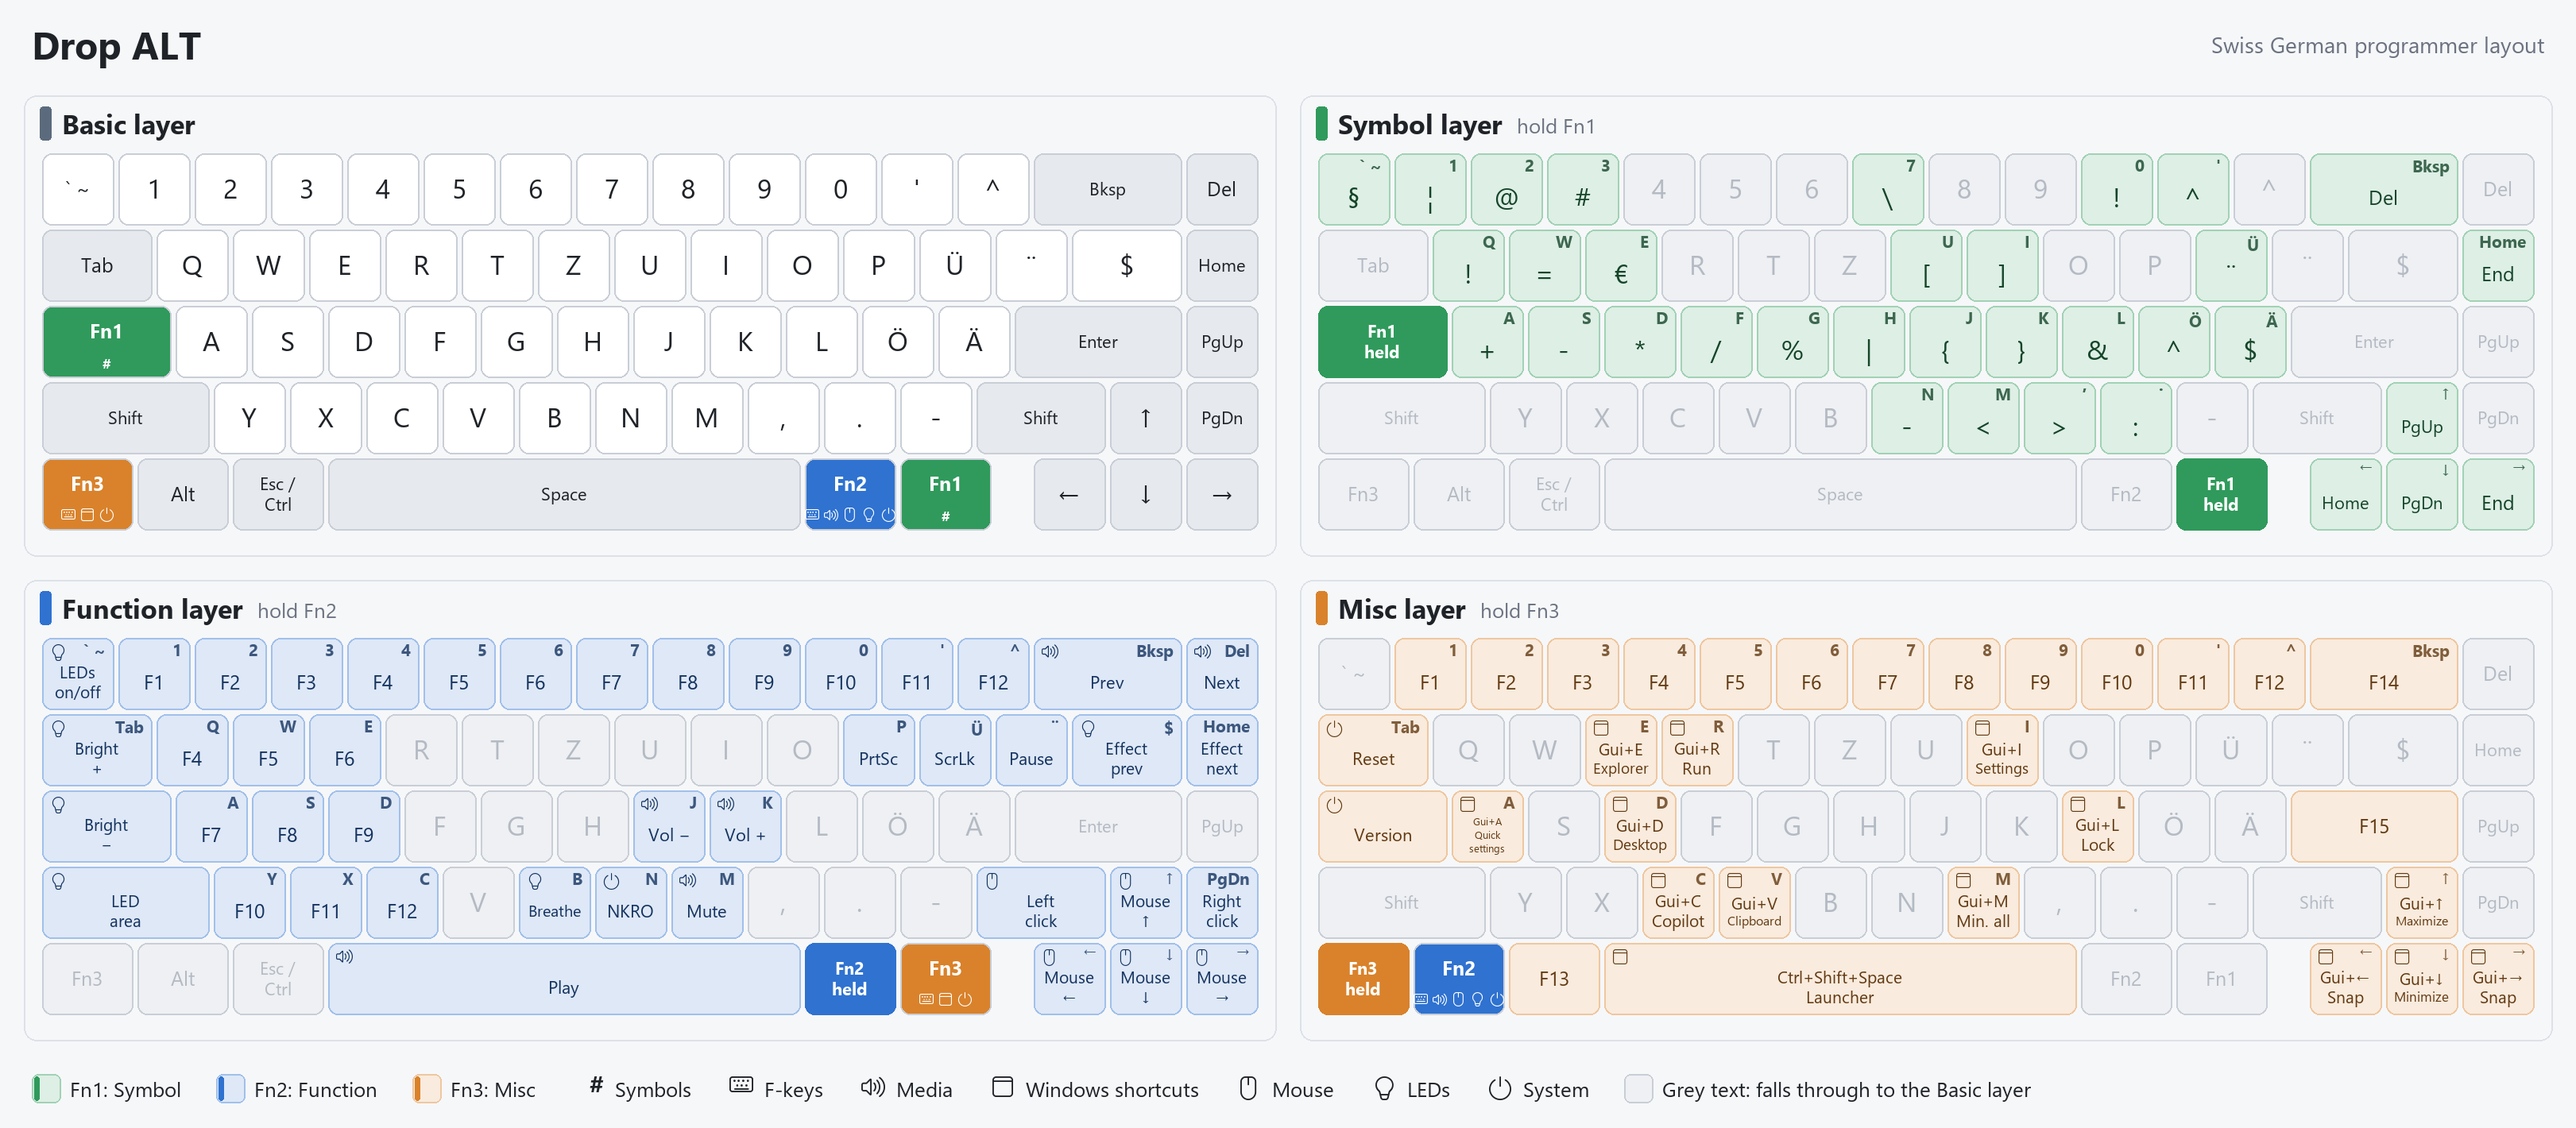
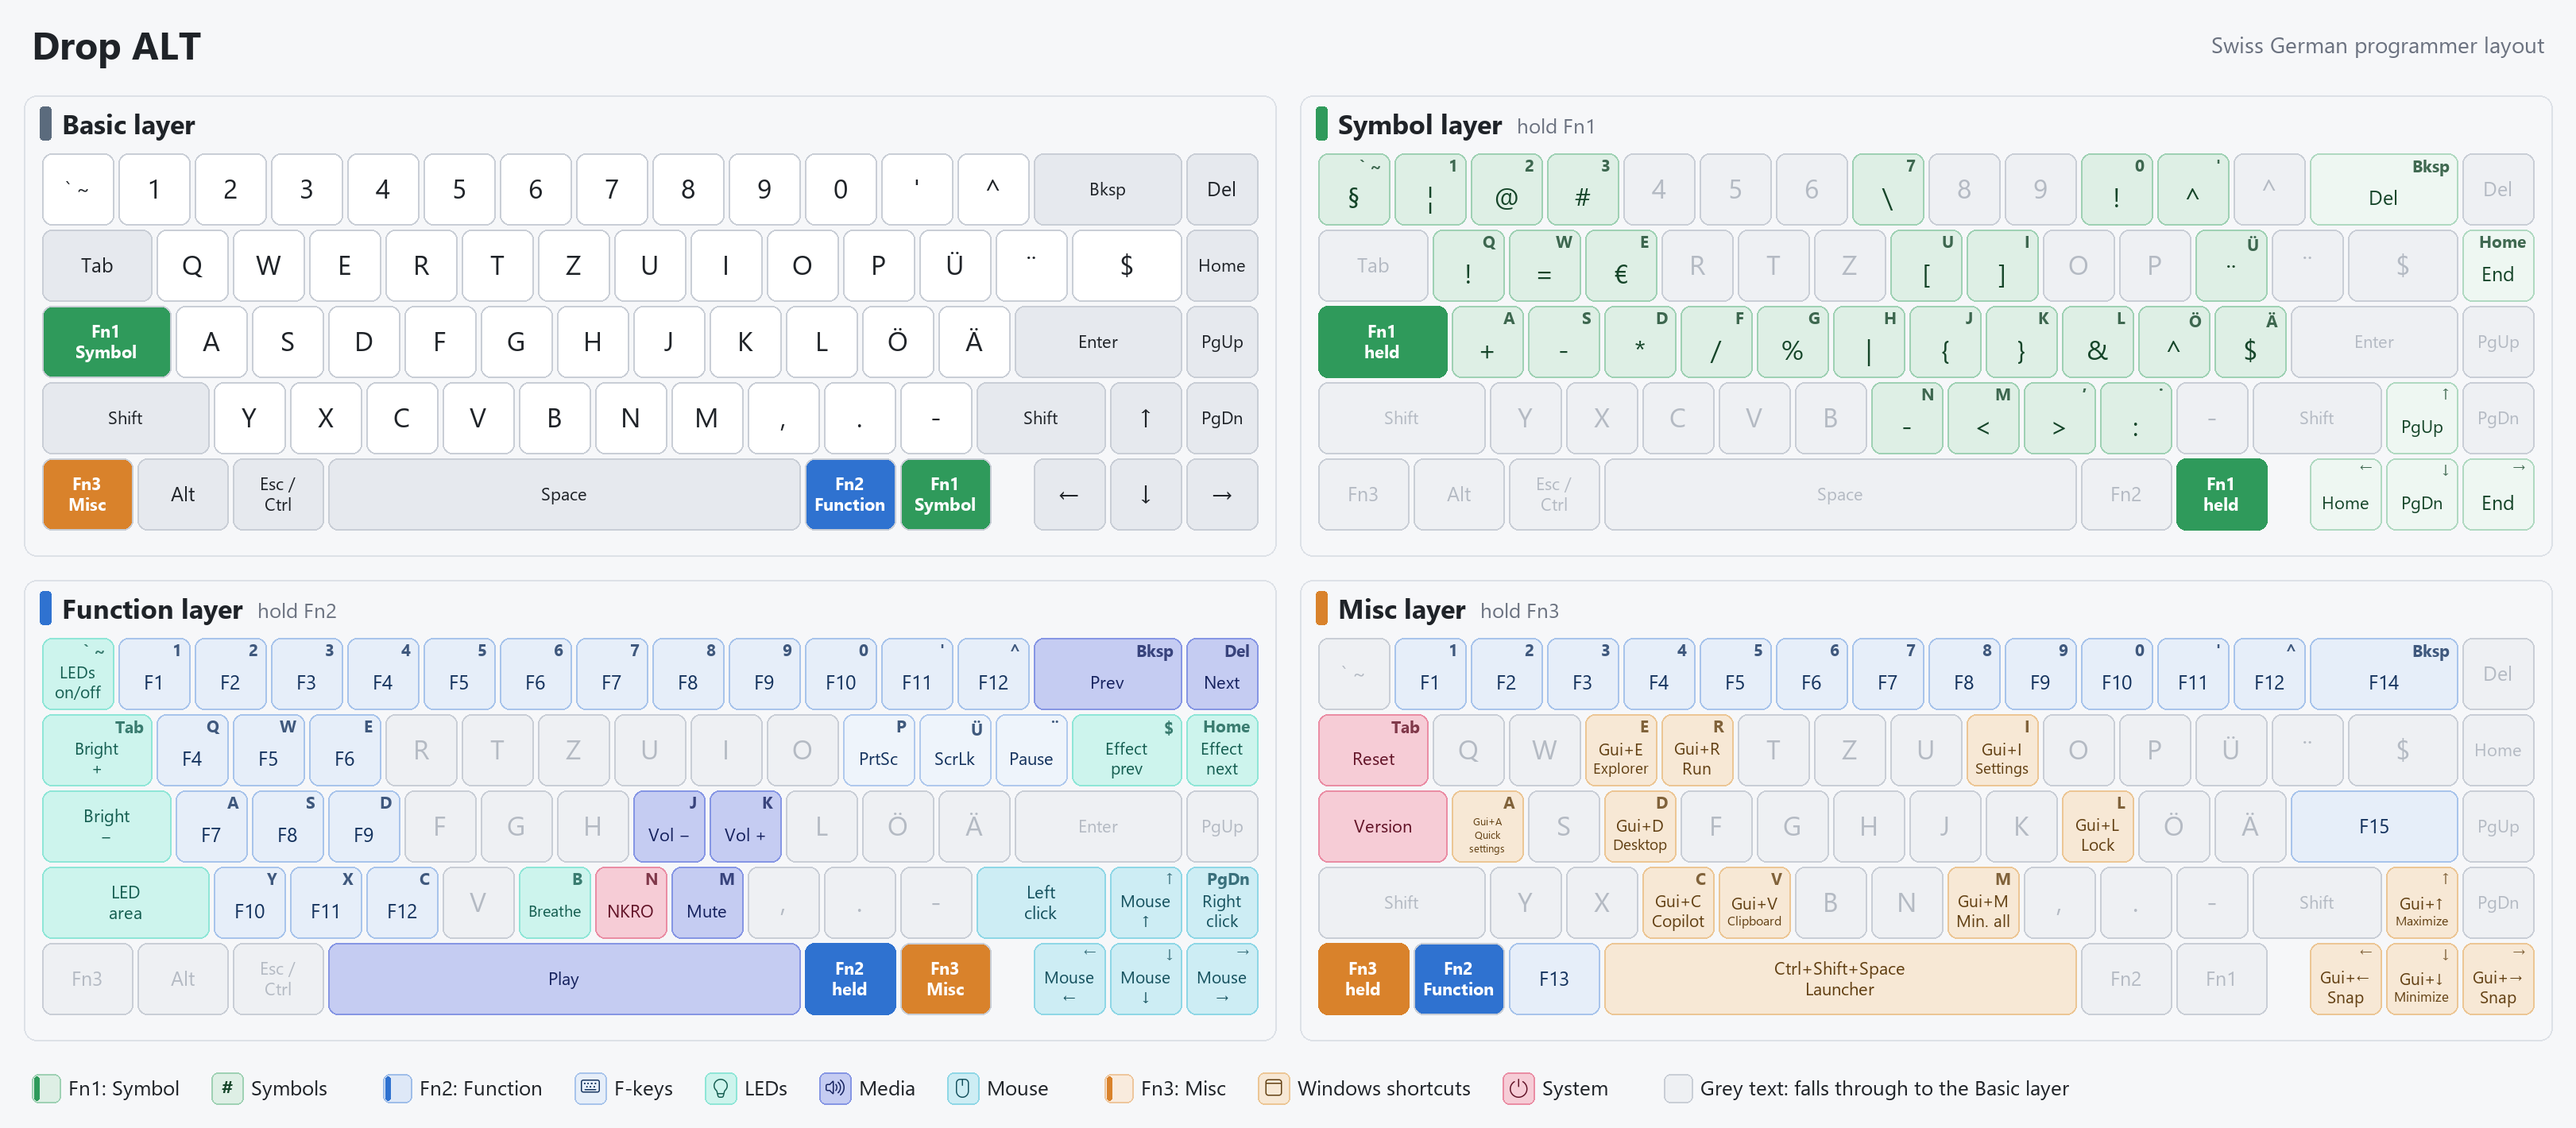
Colour cheat sheet groups as shades of their layer colour
Layer keys name their layer under the Fn label, key icons move to the
legend only, and each group gets a hue variation of its layer colour
(F-keys and system keys keep one colour everywhere). The legend lists
each layer followed by its groups, with a chip per group colour.

diff --git a/tools/cheatsheets.py b/tools/cheatsheets.py
@@ -3,6 +3,7 @@
 Usage: python tools/cheatsheets.py   (writes docs/cheatsheets/*.png)
 Needs Pillow. Labels come from the keymap code, not the ASCII comments.
 """
+import colorsys
 import re
 from pathlib import Path
 
@@ -36,12 +37,17 @@ ICONS = {                    # category: (font file, glyph)
     "rgb":    (FONT_ICONS, ""),   # light bulb
     "system": (FONT_ICONS, ""),   # power
 }
-KEY_ICONS = {"media", "window", "mouse", "rgb", "system"}   # symbol/F-key labels speak for themselves
-LEGEND = [
-    ("symbol", "Symbols"), ("fkey", "F-keys"), ("media", "Media"),
-    ("window", "Windows shortcuts"), ("mouse", "Mouse"), ("rgb", "LEDs"),
-    ("system", "System"),
-]
+GROUP_SHADES = {             # category: (hue shift in degrees, amount of white) off the layer colour
+    "symbol": (0, 0.84), "mod": (0, 0.92), "fkey": (0, 0.88),
+    "media": (15, 0.72), "rgb": (-45, 0.76), "window": (4, 0.80),
+    "mouse": (-25, 0.76), "system": (-45, 0.76),
+}
+GROUP_LAYER = {"system": 3, "fkey": 2}  # categories with one colour on every layer, taken from this layer
+LEGEND = {                   # layer: the groups listed after it in the legend
+    1: [("symbol", "Symbols")],
+    2: [("fkey", "F-keys"), ("rgb", "LEDs"), ("media", "Media"), ("mouse", "Mouse")],
+    3: [("window", "Windows shortcuts"), ("system", "System")],
+}
 BG = "#f6f7f9"
 TRANSPARENT_FILL = "#eef0f3"
 TRANSPARENT_TEXT = "#b4bac3"
@@ -249,19 +255,27 @@ def mix(color, other, amount):
     return "#" + "".join(f"{round(x + (y - x) * amount):02x}" for x, y in zip(a, b))
 
 
-def layer_colours(n):
-    """fill, text, outline for keys that do something on layer n."""
-    accent = LAYERS[n][2]
-    return mix(accent, "#ffffff", 0.84), mix(accent, "#000000", 0.55), mix(accent, "#ffffff", 0.55)
+def shift_hue(color, degrees):
+    r, g, b = (int(color[i:i + 2], 16) / 255 for i in (1, 3, 5))
+    h, l, s = colorsys.rgb_to_hls(r, g, b)
+    r, g, b = colorsys.hls_to_rgb((h + degrees / 360) % 1, l, s)
+    return "#" + "".join(f"{round(c * 255):02x}" for c in (r, g, b))
+
+
+def key_colours(n, cat="symbol"):
+    """fill, text, outline for a key of category cat on layer n: a variation of the layer colour."""
+    shift, white = GROUP_SHADES.get(cat, (0, 0.84))
+    accent = shift_hue(LAYERS[GROUP_LAYER.get(cat, n)][2], shift)
+    return mix(accent, "#ffffff", white), mix(accent, "#000000", 0.55), mix(accent, "#ffffff", white - 0.3)
 
 
 def draw_glyph(draw, xy, glyph, size, color, anchor="lt"):
-    """Draw a glyph so its ink box sits at xy (anchor: l/r + t/b)."""
+    """Draw a glyph so its ink box sits at xy (anchor: l/m/r + t/m/b)."""
     path, ch = glyph
     f = font(size, path=path)
     x0, y0, x1, y1 = f.getbbox(ch)
-    x = xy[0] - (x0 if anchor[0] == "l" else x1)
-    y = xy[1] - (y0 if anchor[1] == "t" else y1)
+    x = xy[0] - {"l": x0, "m": (x0 + x1) / 2, "r": x1}[anchor[0]]
+    y = xy[1] - {"t": y0, "m": (y0 + y1) / 2, "b": y1}[anchor[1]]
     draw.text((x, y), ch, font=f, fill=color)
     return x1 - x0
 
@@ -297,40 +311,23 @@ def fit_key_text(draw, text, max_w, max_h):
 
 
 def draw_key(draw, rect, text, fill, color, outline=None, bold=False, width=2,
-             icon=None, corner=None, corner_color=None, badges=()):
+             corner=None, corner_color=None):
     """text may be a tuple of alternative wrappings; the one whose smallest line is largest wins.
-    icon: category glyph top left; corner: Basic-layer key label top right;
-    badges: row of category glyphs under the text."""
+    corner: Basic-layer key label drawn top right."""
     x0, y0, x1, y1 = rect
     draw.rounded_rectangle(rect, RADIUS, fill=fill, outline=outline or "#c9ced6", width=width)
     pad, small = 10, int(U * 0.22)
-    top = bottom = 0
-    if icon and corner:                 # no room for both: the Basic key label wins
-        widths = [font(small, path=p).getbbox(t) for p, t in (ICONS[icon], (FONT_BOLD, corner))]
-        if sum(b[2] - b[0] for b in widths) + 8 > x1 - x0 - 2 * pad:
-            icon = None
-    if icon:
-        draw_glyph(draw, (x0 + pad, y0 + pad - 2), ICONS[icon], small, color)
+    top = 0
     if corner:
         draw_glyph(draw, (x1 - pad, y0 + pad - 2), (FONT_BOLD, corner), small, corner_color, "rt")
-    if icon or corner:
         top = small + 2
-    if badges:
-        bottom = small + 4
-        sz = int(small * 0.9)
-        ws = [font(sz, path=ICONS[b][0]).getbbox(ICONS[b][1]) for b in badges]
-        ws = [b[2] - b[0] for b in ws]
-        x = (x0 + x1 - sum(ws) - 6 * (len(ws) - 1)) / 2
-        for b, w in zip(badges, ws):
-            draw_glyph(draw, (x, y1 - pad), ICONS[b], sz, color, "lb")
-            x += w + 6
     if not text:
         return
     variants = [text] if isinstance(text, str) else text
-    fits = [fit_key_text(draw, t, x1 - x0 - 2 * pad, y1 - y0 - 2 * pad - top - bottom) for t in variants]
+    fits = [fit_key_text(draw, t, x1 - x0 - 2 * pad, y1 - y0 - 2 * pad - top) for t in variants]
     lines, sizes = max(fits, key=lambda ls: min(ls[1]))
     fonts = [font(s, bold) for s in sizes]
-    cx, cy = (x0 + x1) / 2, (y0 + top + y1 - bottom) / 2
+    cx, cy = (x0 + x1) / 2, (y0 + top + y1) / 2
     baseline = cy - text_height(lines, sizes, descender=False) / 2 -fonts[0].getbbox("A", anchor="ls")[1]
     for i, (line, f) in enumerate(zip(lines, fonts)):
         if i:
@@ -352,7 +349,6 @@ def render_layer(layers, n, geometry):
         tw = d.textlength(name, font=font(34, bold=True))
         d.text((48 + tw + 18, 37), how, font=font(26), fill=TEXT_MUTED, anchor="lm")
 
-    fill, color, outline = layer_colours(n)
     for i, (x, y, w, h) in enumerate(geometry):
         rect = (20 + x * U + GAP / 2, header + y * U + GAP / 2,
                 20 + (x + w) * U - GAP / 2, header + (y + h) * U - GAP / 2)
@@ -367,15 +363,14 @@ def render_layer(layers, n, geometry):
             continue
         text, cat = key_category(kc, n)
         if cat.startswith("layer"):
-            col = LAYERS[int(cat[-1])][2]
-            draw_key(d, rect, text, col, "#ffffff", bold=True,
-                     badges=layer_categories(layers, int(cat[-1])))
+            name, _, col = LAYERS[int(cat[-1])]
+            draw_key(d, rect, f"{text}\n{name.replace(' layer', '')}", col, "#ffffff", bold=True)
         elif n:
-            draw_key(d, rect, text, fill, color, outline=outline, icon=cat if cat in KEY_ICONS else None,
+            fill, color, outline = key_colours(n, cat)
+            draw_key(d, rect, text, fill, color, outline=outline,
                      corner=base_hint(layers[0][i]), corner_color=mix(color, fill, 0.2))
         else:
-            draw_key(d, rect, text, BASIC_FILLS.get(cat, "#ffffff"), TEXT_DARK,
-                     icon=cat if cat in KEY_ICONS else None)
+            draw_key(d, rect, text, BASIC_FILLS.get(cat, "#ffffff"), TEXT_DARK)
     return img
 
 
@@ -384,12 +379,6 @@ def key_category(kc, n):
     if n and cat == "alpha":                        # plain CH key placed on a symbol layer
         cat = "symbol"
     return text, cat
-
-
-def layer_categories(layers, n):
-    """Icon categories of the keys defined on layer n, in legend order."""
-    cats = {key_category(kc, n)[1] for kc in layers[n] if kc != "_______"}
-    return [c for c, _ in LEGEND if c in cats]
 
 
 def base_hint(kc):
@@ -419,7 +408,7 @@ def render_keyboard(title, layers, geometry):
         sheet.paste(p, (x, y))
         d.rounded_rectangle((x, y, x + pw, y + ph), 16, outline="#dde1e7", width=2)
 
-    legend = render_legend()
+    legend = render_legend(layers)
     if legend.width > W - 2 * margin - 10:          # narrow sheet: shrink the legend to fit
         scale = (W - 2 * margin - 10) / legend.width
         legend = legend.resize((int(legend.width * scale), int(legend.height * scale)), Image.LANCZOS)
@@ -427,26 +416,42 @@ def render_keyboard(title, layers, geometry):
     return sheet
 
 
-def render_legend():
-    img = Image.new("RGB", (4000, 40), BG)
+def render_legend(layers):
+    """Layer swatches, then per group one chip in each colour it has on this keyboard."""
+    img = Image.new("RGB", (4000, 48), BG)
     d = ImageDraw.Draw(img)
-    x, y = 0, 20
+    f = font(26)
+    y = 24
+    caps = f.getbbox("H", anchor="lm")
+    ty = y - (caps[1] + caps[3]) / 2                # text anchor that centres the capitals on y
+
+    def entry(x, text):
+        d.text((x + 10, ty), text, font=f, fill=TEXT_DARK, anchor="lm")
+        return x + 10 + d.textlength(text, font=f) + 40
+
+    x = 0
     for n in range(1, 4):
-        fill, color, outline = layer_colours(n)
+        fill, color, outline = key_colours(n)
         d.rounded_rectangle((x, y - 18, x + 36, y + 18), 8, fill=fill, outline=outline, width=2)
         d.rounded_rectangle((x + 3, y - 15, x + 9, y + 15), 3, fill=LAYERS[n][2])
-        text = f"{LAYERS[n][1].replace('hold ', '')}: {LAYERS[n][0].replace(' layer', '')}"
-        d.text((x + 48, y), text, font=font(26), fill=TEXT_DARK, anchor="lm")
-        x += 48 + d.textlength(text, font=font(26)) + 44
-    x += 20
-    for cat, text in LEGEND:
-        x += 6 + draw_glyph(d, (x + 4, y - 15), ICONS[cat], 30, TEXT_DARK) + 12
-        d.text((x, y), text, font=font(26), fill=TEXT_DARK, anchor="lm")
-        x += d.textlength(text, font=font(26)) + 44
+        x = entry(x + 36, f"{LAYERS[n][1].replace('hold ', '')}: {LAYERS[n][0].replace(' layer', '')}")
+        for cat, text in LEGEND[n]:
+            chips = []
+            for m in range(1, 4):
+                if any(key_category(kc, m)[1] == cat for kc in layers[m] if kc != "_______"):
+                    if (c := key_colours(m, cat)) not in chips:
+                        chips.append(c)
+            if not chips:
+                continue
+            for fill, color, outline in chips:
+                d.rounded_rectangle((x, y - 20, x + 40, y + 20), 8, fill=fill, outline=outline, width=2)
+                draw_glyph(d, (x + 20, y), ICONS[cat], 24, color, "mm")
+                x += 44
+            x = entry(x - 4, text)
+        x += 30
     d.rounded_rectangle((x, y - 18, x + 36, y + 18), 8, fill=TRANSPARENT_FILL, outline="#c9ced6", width=2)
-    text = "Grey text: falls through to the Basic layer"
-    d.text((x + 48, y), text, font=font(26), fill=TEXT_DARK, anchor="lm")
-    return img.crop((0, 0, int(x + 48 + d.textlength(text, font=font(26))) + 4, 40))
+    x = entry(x + 36, "Grey text: falls through to the Basic layer")
+    return img.crop((0, 0, int(x - 36), 48))
 
 
 def main():

diff --git a/README.md b/README.md
@@ -22,10 +22,11 @@ target list in `qmk_alt.json`.
 Four layers on every keyboard: **Basic**, **Symbol** (hold Fn1), **Function** (hold Fn2) and
 **Misc** (hold Fn3).
 
-Keys on a Fn layer are tinted in that layer's colour, so the colour tells you which Fn key to
+Keys on a Fn layer are shades of that layer's colour, so the colour tells you which Fn key to
 hold, and the small label in the top-right corner is the Basic-layer key at that spot: Vol + is
-light blue with a "K" in the corner, so press Fn2 + K. Icons mark the kind of action, and the
-icons under each Fn key on the Basic layer show what you'll find on its layer.
+blue with a "K" in the corner, so press Fn2 + K. Within a layer the shade varies with the kind
+of action (on the Function layer: F-keys pale blue, media periwinkle, mouse cyan, LEDs teal). F-keys are pale blue and system keys (Reset,
+Version, NKRO) red-pink on every layer.
 
 On the Drop ALT, while a Fn layer is held, the keys that do something on it light up in that
 layer's colour from the cheat sheets (Symbol green, Function blue, Misc orange) and the other
